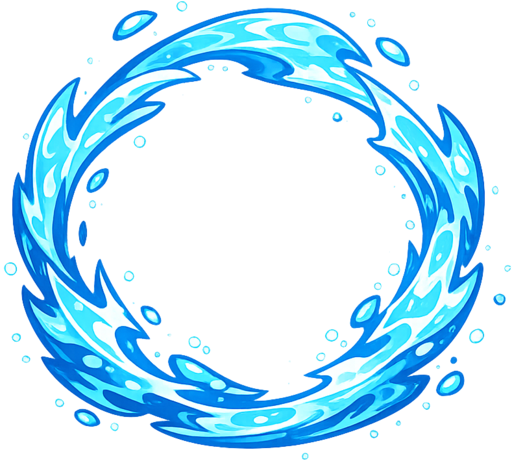
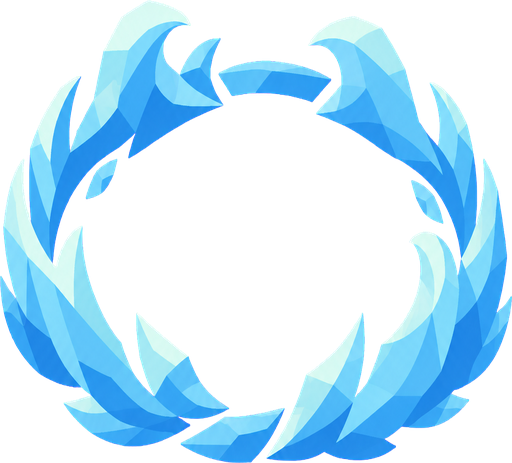
feat: redraw five elemental auras in the master faceted style
lightning, nature, rock, water, and wind auras carried the old
gloss/gradient/outline look while fire_aura.png already used the
master 2.5D cut-paper technique. Regenerated the other five with
codex image_gen against MasterStyleKey.png and fire_aura.png as
references, keyed the magenta background out, and squashed each
trimmed ring to its original canvas so prefab scale and PPU stay
unchanged. Pixel sizes match the originals exactly and .meta files
are untouched.

Closes #680

diff --git a/.art/PRODUCTION-STATUS.md b/.art/PRODUCTION-STATUS.md
@@ -65,6 +65,11 @@
 | `SeaSerpent.png` | 클라이언트 PR (이슈 #672) | 201x256 RGBA. magic book 이 빈 칸이던 신규 아이콘. 물 소환수 문법, 곧추선 몸통에 두 겹 똬리. Unity Editor 검수는 남아 있다 |
 | `BoulderStrike.png` | 클라이언트 PR (이슈 #672) | 256x146 RGBA. 밀려 나가는 바위와 뒤따르는 초승달. 전투 화면 투사체는 여전히 `RockRolling.png` 를 빌려 쓴다 |
 | `SpiritBomb.png` | 클라이언트 PR (이슈 #672) | 256x183 RGBA. 필드 오브젝트가 없는 마법이라 책 아이콘 전용. LIGHTNING 과 NATURE 두 원소를 금색과 풀색으로 같이 쓴다 |
+| `ligtning_aura.png` | 클라이언트 PR (이슈 #680) | 512x469 RGBA. `fire_aura.png` 기법으로 재작업한 전기 공용 오라. 64px 실루엣 검수 완료 |
+| `nature_aura.png` | 클라이언트 PR (이슈 #680) | 512x484 RGBA. `fire_aura.png` 기법으로 재작업한 자연 공용 오라. 64px 실루엣 검수 완료 |
+| `rock_aura.png` | 클라이언트 PR (이슈 #680) | 506x512 RGBA. `fire_aura.png` 기법으로 재작업한 바위 공용 오라. 64px 실루엣 검수 완료 |
+| `water_aura.png` | 클라이언트 PR (이슈 #680) | 512x463 RGBA. `fire_aura.png` 기법으로 재작업한 물 공용 오라. `cloud.png`(운룡 전용 구형 오라)와는 별개. 64px 실루엣 검수 완료 |
+| `wind_aura.png` | 클라이언트 PR (이슈 #680) | 512x269 RGBA. `fire_aura.png` 기법으로 재작업한 바람 공용 오라. 64px 실루엣 검수 완료 |
 
 ## 다음 교체 후보
 
